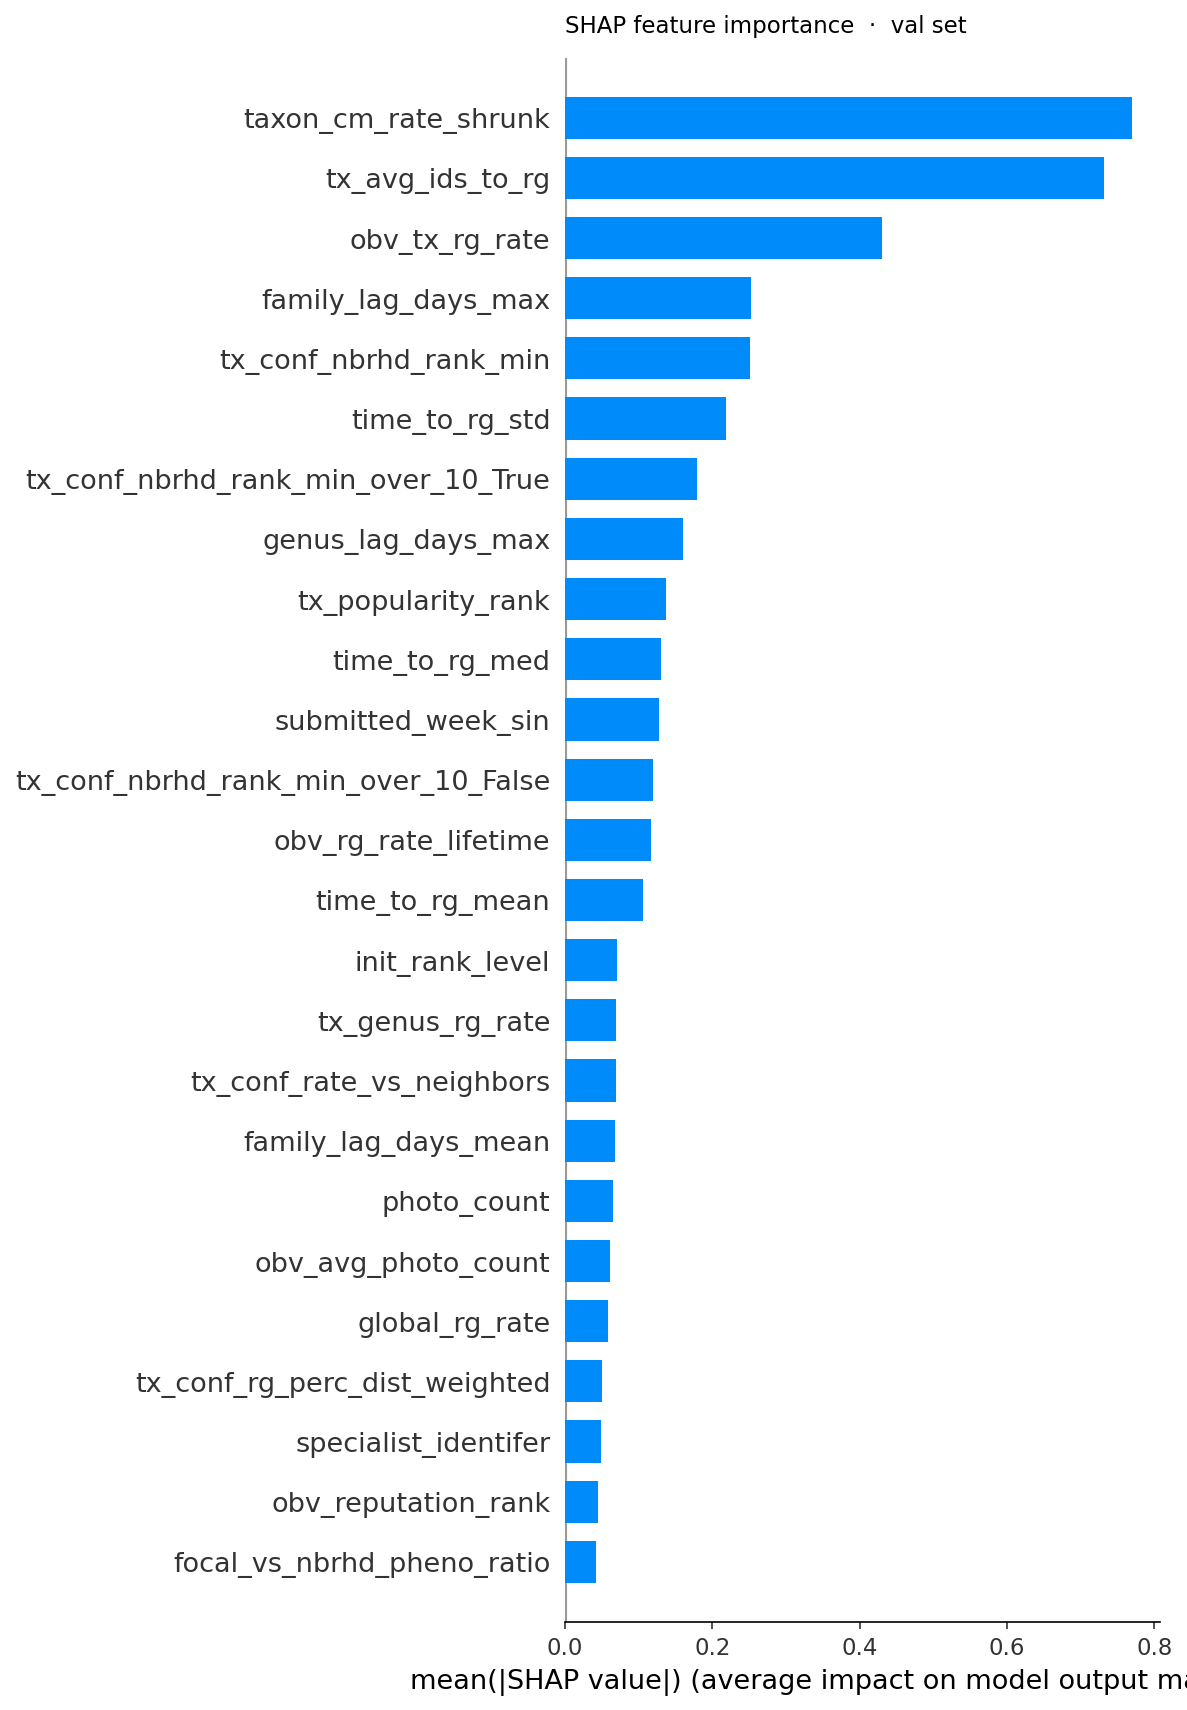
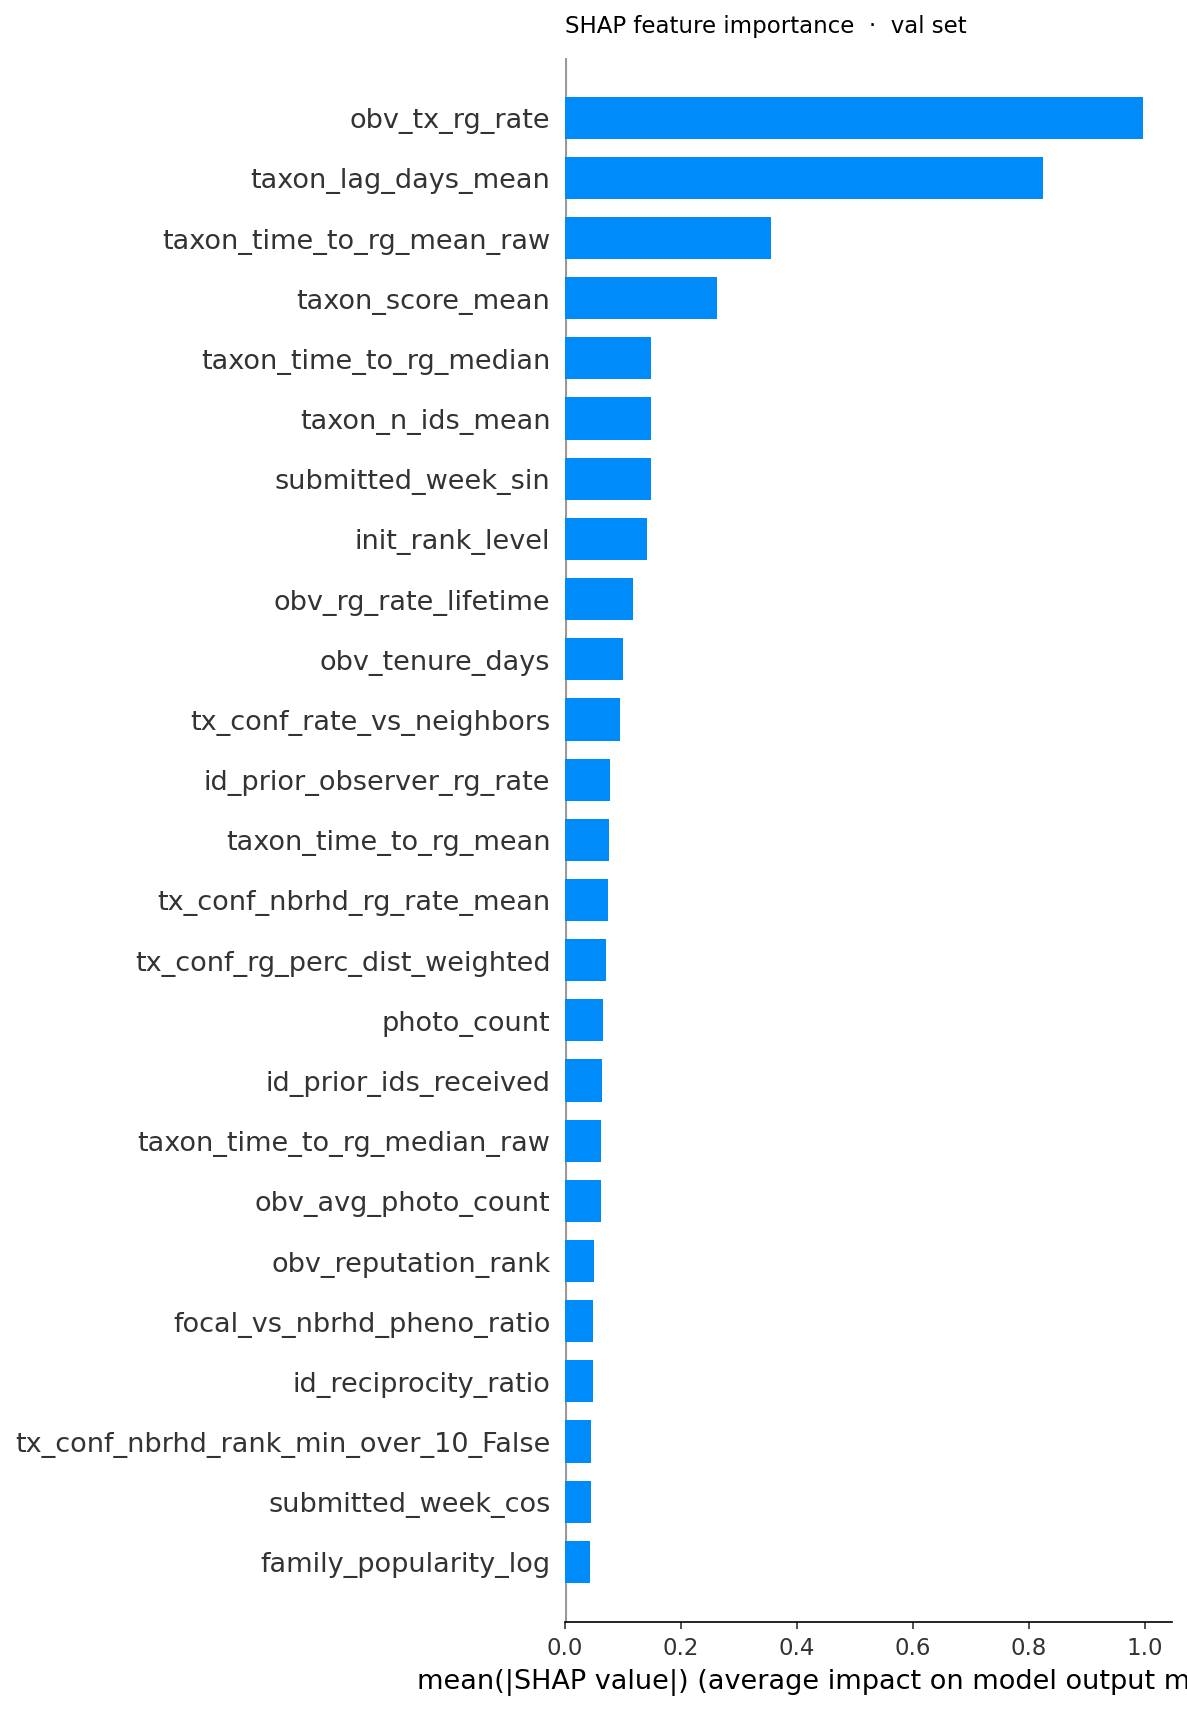
lower bayesian alpha

diff --git a/README.md b/README.md
@@ -184,14 +184,10 @@ The `research_grade_windowed()` wrapper enforces all eligibility conditions — 
 
 Rare taxa have too few observations to compute reliable difficulty estimates. A layered approach handles the full spectrum from common to rare:
 
-**Static taxon difficulty aggregates:** Structural taxon properties computed once
-on the training partition (bounded by `train_cutoff_date`) and applied as a static
-lookup to val and test — no recomputation on held-out data. Includes average and
-standard deviation of time-to-RG, lag distributions across the taxonomic hierarchy,
-average identifications required to reach RG, and `tx_lag_deviation`.
+**Static taxon difficulty aggregates:** Structural taxon properties computed once and applied as a static lookup. Includes average and standard deviation of time-to-RG, lag distributions across the taxonomic hierarchy, average identifications required to reach RG, and `tx_lag_deviation`.
 
 Taxon RG rates are computed with Bayesian
-shrinkage (α = 10) blending the taxon-specific rate toward the global prior. Hierarchical fallback — species → genus → family → order → global mean — activates
+shrinkage (α = 3) blending the taxon-specific rate toward the global prior. Hierarchical fallback — species → genus → family → order → global mean — activates
 when sample counts are insufficient.
 
 These aggregates try to specifically capture structurally difficult groups where community expertise is sparse and resolution timelines are long regardless of individual observation quality.
